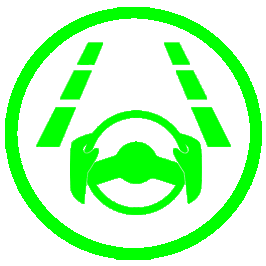
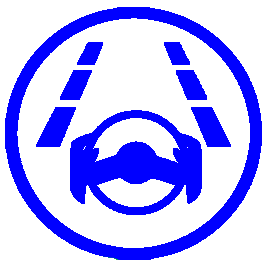
QOL Part 2

Changed region(s): [[0.1203, 0.1504, 0.8722, 0.812], [0.0, 0.0, 0.9925, 0.9925]]

diff --git a/selfdrive/car/toyota/interface.py b/selfdrive/car/toyota/interface.py
@@ -1,5 +1,7 @@
 #!/usr/bin/env python3
 from cereal import car
+from common.numpy_fast import interp
+from common.params import Params
 from selfdrive.config import Conversions as CV
 from selfdrive.car.toyota.tunes import LatTunes, LongTunes, set_long_tune, set_lat_tune
 from selfdrive.car.toyota.values import CruiseButtons, Ecu, CAR, TSS2_CAR, NO_DSU_CAR, MIN_ACC_SPEED, CarControllerParams
@@ -102,21 +104,24 @@ class CarInterface(CarInterfaceBase):
       ret.mass = 3300. * CV.LB_TO_KG + STD_CARGO_KG
       set_lat_tune(ret.lateralTuning, LatTunes.PID_F)
 
-    elif candidate in [CAR.CAMRY, CAR.CAMRYH, CAR.CAMRY_TSS2, CAR.CAMRYH_TSS2]:
+    elif candidate in (CAR.CAMRY, CAR.CAMRYH, CAR.CAMRY_TSS2, CAR.CAMRYH_TSS2):
       stop_and_go = True
       ret.wheelbase = 2.82448
-      ret.steerRatio = 13.7
+      ret.steerRatio = 18
       tire_stiffness_factor = 0.7933
       ret.mass = 3400. * CV.LB_TO_KG + STD_CARGO_KG  # mean between normal and hybrid
-      ret.lateralTuning.init('lqr')
-      ret.lateralTuning.lqr.scale = 1500.0
-      ret.lateralTuning.lqr.ki = 0.1
-      ret.lateralTuning.lqr.a = [0., 1., -0.22619643, 1.21822268]
-      ret.lateralTuning.lqr.b = [-1.92006585e-04, 3.95603032e-05]
-      ret.lateralTuning.lqr.c = [1., 0.]
-      ret.lateralTuning.lqr.k = [-110.73572306, 451.22718255]
-      ret.lateralTuning.lqr.l = [0.3233671, 0.3185757]
-      ret.lateralTuning.lqr.dcGain = 0.002237852961363602
+      if Params().get_bool('LqrTune'):
+        ret.lateralTuning.init('lqr')
+        ret.lateralTuning.lqr.scale = 1200.0
+        ret.lateralTuning.lqr.ki = 0.15
+        ret.lateralTuning.lqr.a = [0., 1., -0.22619643, 1.21822268]
+        ret.lateralTuning.lqr.b = [-1.92006585e-04, 3.95603032e-05]
+        ret.lateralTuning.lqr.c = [1., 0.]
+        ret.lateralTuning.lqr.k = [-110.73572306, 451.22718255]
+        ret.lateralTuning.lqr.l = [0.3233671, 0.3185757]
+        ret.lateralTuning.lqr.dcGain = 0.002337852961363602
+      else:
+        set_lat_tune(ret.lateralTuning, LatTunes.PID_C)
 
     elif candidate in [CAR.HIGHLANDER_TSS2, CAR.HIGHLANDERH_TSS2]:
       stop_and_go = True
@@ -163,7 +168,18 @@ class CarInterface(CarInterfaceBase):
       ret.steerRatio = 13.9
       tire_stiffness_factor = 0.444  # not optimized yet
       ret.mass = 3060. * CV.LB_TO_KG + STD_CARGO_KG
-      set_lat_tune(ret.lateralTuning, LatTunes.PID_D)
+      if Params().get_bool('LqrTune'):
+        ret.lateralTuning.init('lqr')
+        ret.lateralTuning.lqr.scale = 1500.0
+        ret.lateralTuning.lqr.ki = 0.1
+        ret.lateralTuning.lqr.a = [0., 1., -0.22619643, 1.21822268]
+        ret.lateralTuning.lqr.b = [-1.92006585e-04, 3.95603032e-05]
+        ret.lateralTuning.lqr.c = [1., 0.]
+        ret.lateralTuning.lqr.k = [-110.73572306, 451.22718255]
+        ret.lateralTuning.lqr.l = [0.3233671, 0.3185757]
+        ret.lateralTuning.lqr.dcGain = 0.002237852961363602
+      else:
+        set_lat_tune(ret.lateralTuning, LatTunes.PID_D)
 
     elif candidate in [CAR.LEXUS_ES_TSS2, CAR.LEXUS_ESH_TSS2]:
       stop_and_go = True
@@ -230,7 +246,18 @@ class CarInterface(CarInterfaceBase):
       ret.steerRatio = 13.4   # True steerRatio from older prius
       tire_stiffness_factor = 0.6371   # hand-tune
       ret.mass = 3115. * CV.LB_TO_KG + STD_CARGO_KG
-      set_lat_tune(ret.lateralTuning, LatTunes.PID_N)
+      if Params().get_bool('LqrTune'):
+        ret.lateralTuning.init('lqr')
+        ret.lateralTuning.lqr.scale = 1500.0
+        ret.lateralTuning.lqr.ki = 0.15
+        ret.lateralTuning.lqr.a = [0., 1., -0.22619643, 1.21822268]
+        ret.lateralTuning.lqr.b = [-1.92006585e-04, 3.95603032e-05]
+        ret.lateralTuning.lqr.c = [1., 0.]
+        ret.lateralTuning.lqr.k = [-110.73572306, 451.22718255]
+        ret.lateralTuning.lqr.l = [0.3233671, 0.3185757]
+        ret.lateralTuning.lqr.dcGain = 0.002237852961363602
+      else:
+        set_lat_tune(ret.lateralTuning, LatTunes.PID_N)
 
     elif candidate == CAR.MIRAI:
       stop_and_go = True

diff --git a/selfdrive/controls/lib/events.py b/selfdrive/controls/lib/events.py
@@ -140,7 +140,7 @@ class Alert:
 
 class NoEntryAlert(Alert):
   def __init__(self, alert_text_2, visual_alert=VisualAlert.none):
-    super().__init__("openpilot Unavailable", alert_text_2, AlertStatus.userPrompt,
+    super().__init__("Openpilot Unavailable", alert_text_2, AlertStatus.userPrompt,
                      AlertSize.mid, Priority.LOW, visual_alert,
                      AudibleAlert.refuse, 3.)
 
@@ -150,7 +150,7 @@ class SoftDisableAlert(Alert):
     super().__init__("TAKE CONTROL IMMEDIATELY", alert_text_2,
                      AlertStatus.userPrompt, AlertSize.full,
                      Priority.MID, VisualAlert.none,
-                     AudibleAlert.warningSoft, 2.),
+                     AudibleAlert.none, 2.),
 
 
 # less harsh version of SoftDisable, where the condition is user-triggered
@@ -357,7 +357,7 @@ EVENTS: Dict[int, Dict[str, Union[Alert, AlertCallbackType]]] = {
       "BRAKE!",
       "Risk of Collision",
       AlertStatus.critical, AlertSize.full,
-      Priority.HIGHEST, VisualAlert.fcw, AudibleAlert.warningSoft, 2.),
+      Priority.HIGHEST, VisualAlert.fcw, AudibleAlert.none, 2.),
   },
 
   EventName.ldw: {
@@ -365,7 +365,7 @@ EVENTS: Dict[int, Dict[str, Union[Alert, AlertCallbackType]]] = {
       "Lane Departure Detected",
       "",
       AlertStatus.userPrompt, AlertSize.small,
-      Priority.LOW, VisualAlert.ldw, AudibleAlert.prompt, 3.),
+      Priority.LOW, VisualAlert.ldw, AudibleAlert.none, 3.),
   },
 
   # ********** events only containing alerts that display while engaged **********
@@ -393,10 +393,10 @@ EVENTS: Dict[int, Dict[str, Union[Alert, AlertCallbackType]]] = {
 
   EventName.steerTempUnavailableSilent: {
     ET.WARNING: Alert(
-      "Autosteer Temporarily Suspended",
+      "Autosteer still enabled",
       "Steering override by driver.",
       AlertStatus.userPrompt, AlertSize.mid,
-      Priority.LOW, VisualAlert.none, AudibleAlert.prompt, 1.),
+      Priority.LOW, VisualAlert.none, AudibleAlert.none, 1.),
   },
 
   EventName.preDriverDistracted: {
@@ -602,8 +602,11 @@ EVENTS: Dict[int, Dict[str, Union[Alert, AlertCallbackType]]] = {
   },
 
   EventName.steerTempUnavailable: {
-    ET.SOFT_DISABLE: soft_disable_alert("Autosteer Temporarily Suspended"),
-    ET.NO_ENTRY: NoEntryAlert("Autosteer Temporarily Suspended"),
+    ET.WARNING: Alert(
+      "Autosteer still enabled",
+      "Large steer override by driver.",
+      AlertStatus.userPrompt, AlertSize.mid,
+      Priority.LOW, VisualAlert.none, AudibleAlert.none, 1.),
   },
 
   EventName.outOfSpace: {

diff --git a/selfdrive/ui/qt/offroad/settings.cc b/selfdrive/ui/qt/offroad/settings.cc
@@ -517,8 +517,14 @@ SunnypilotPanel::SunnypilotPanel(QWidget* parent) : QWidget(parent) {
                                  this));
 
   toggles.append(new ParamControl("ACCMADSCombo",
-                                  "Enable ACC+MADS with RES+/SET-",
+                                  "Enable ACC+LKAS with RES+/SET-",
                                   "Engage both ACC and MADS with a single press of RES+ or SET- button.\nNote: Once MADS is engaged via this mode, it will remain engaged until it is manually disabled via LFA/LKAS/Cruise MAIN button or car shut off.",
+                                  "../assets/offroad/icon_openpilot.png",
+                                  this));
+
+  toggles.append(new ParamControl("LqrTune",
+                                  "Use LQR Tune",
+                                  "LQR tuning values for smoother steering. For select models only.",
                                   "../assets/offroad/icon_openpilot.png",
                                   this));
 

diff --git a/selfdrive/ui/qt/onroad.h b/selfdrive/ui/qt/onroad.h
@@ -19,7 +19,7 @@ public:
 private:
   QPushButton *dlpBtn;
 
-  const QStringList dlpBtnColors = {"#00FF00", "#00FF00", "#00FF00"};
+  const QStringList dlpBtnColors = {"#0000FF", "#0000FF", "#0000FF"};
 
 public slots:
   void updateState(const UIState &s);
@@ -205,7 +205,7 @@ protected:
   void drawLead(QPainter &painter, const cereal::ModelDataV2::LeadDataV3::Reader &lead_data, const QPointF &vd);
   inline QColor redColor(int alpha = 255) { return QColor(201, 34, 49, alpha); }
   inline QColor blackColor(int alpha = 255) { return QColor(0, 0, 0, alpha); }
-  inline QColor greenColor(int alpha = 255) { return QColor(0, 255, 0, alpha); }
+  inline QColor greenColor(int alpha = 255) { return QColor(0, 0, 255, alpha); }
   inline QColor graceBlueColor(int alpha = 255) { return QColor (34, 49, 201, alpha); }
   double prev_draw_t = 0;
 

diff --git a/selfdrive/ui/qt/onroad.cc b/selfdrive/ui/qt/onroad.cc
@@ -1067,8 +1067,8 @@ void NvgWindow::drawLaneLines(QPainter &painter, const UIScene &scene) {
         const float default_pos = 1.4;  // when lane poly isn't available
         const float lane_pos = line.getY().size() > 0 ? std::abs(line.getY()[5]) : default_pos;  // get redder when line is closer to car
         float hue = 332.5 * lane_pos - 332.5;  // equivalent to {1.4, 1.0}: {133, 0} (green to red)
-        hue = std::fmin(133, fmax(0, hue)) / 360.;  // clip and normalize
-        painter.setBrush(QColor::fromHslF(hue, 1.0, 0.50, scene.lane_line_probs[i]));
+        hue = std::fmin(240, fmax(0, hue)) / 360.;  // clip and normalize
+        painter.setBrush(QColor::fromRgbF(1.0, 1.0, 1.0, scene.lane_line_probs[i]));
       } else {
         painter.setBrush(QColor::fromRgbF(1.0, 1.0, 1.0, scene.lane_line_probs[i]));
       }

diff --git a/selfdrive/ui/ui.h b/selfdrive/ui/ui.h
@@ -76,8 +76,8 @@ typedef enum UIStatus {
 } UIStatus;
 
 const QColor bg_colors [] = {
-  [STATUS_DISENGAGED] =  QColor(0x0, 0xFF, 0x0, 0xf1),
-  [STATUS_ENGAGED] = QColor(0x0, 0xFF, 0x0, 0xf1),
+  [STATUS_DISENGAGED] =  QColor(0x96, 0x96, 0x96, 0xc8),
+  [STATUS_ENGAGED] = QColor(0x0, 0x0, 0xFF, 0xf1),
   [STATUS_WARNING] = QColor(0xE, 0x17, 0x1F, 0xf1),
   [STATUS_ALERT] = QColor(0xC9, 0x22, 0x31, 0xf1),
 };

diff --git a/selfdrive/common/params.cc b/selfdrive/common/params.cc
@@ -85,6 +85,7 @@ private:
 std::unordered_map<std::string, uint32_t> keys = {
     {"AccessToken", CLEAR_ON_MANAGER_START | DONT_LOG},
     {"ACCMADSCombo", PERSISTENT},
+    {"LqrTune", PERSISTENT},
     {"AthenadPid", PERSISTENT},
     {"AutoLaneChangeTimer", PERSISTENT},
     {"BootedOnroad", CLEAR_ON_MANAGER_START | CLEAR_ON_IGNITION_OFF},

diff --git a/selfdrive/car/toyota/tunes.py b/selfdrive/car/toyota/tunes.py
@@ -85,8 +85,8 @@ def set_lat_tune(tune, name):
       tune.pid.kiV = [0.05]
       tune.pid.kf = 0.00006
     elif name == LatTunes.PID_C:
-      tune.pid.kpV = [0.6]
-      tune.pid.kiV = [0.1]
+      tune.pid.kpV = [0.2]
+      tune.pid.kiV = [0.05]
       tune.pid.kf = 0.00006
     elif name == LatTunes.PID_D:
       tune.pid.kpV = [0.6]
